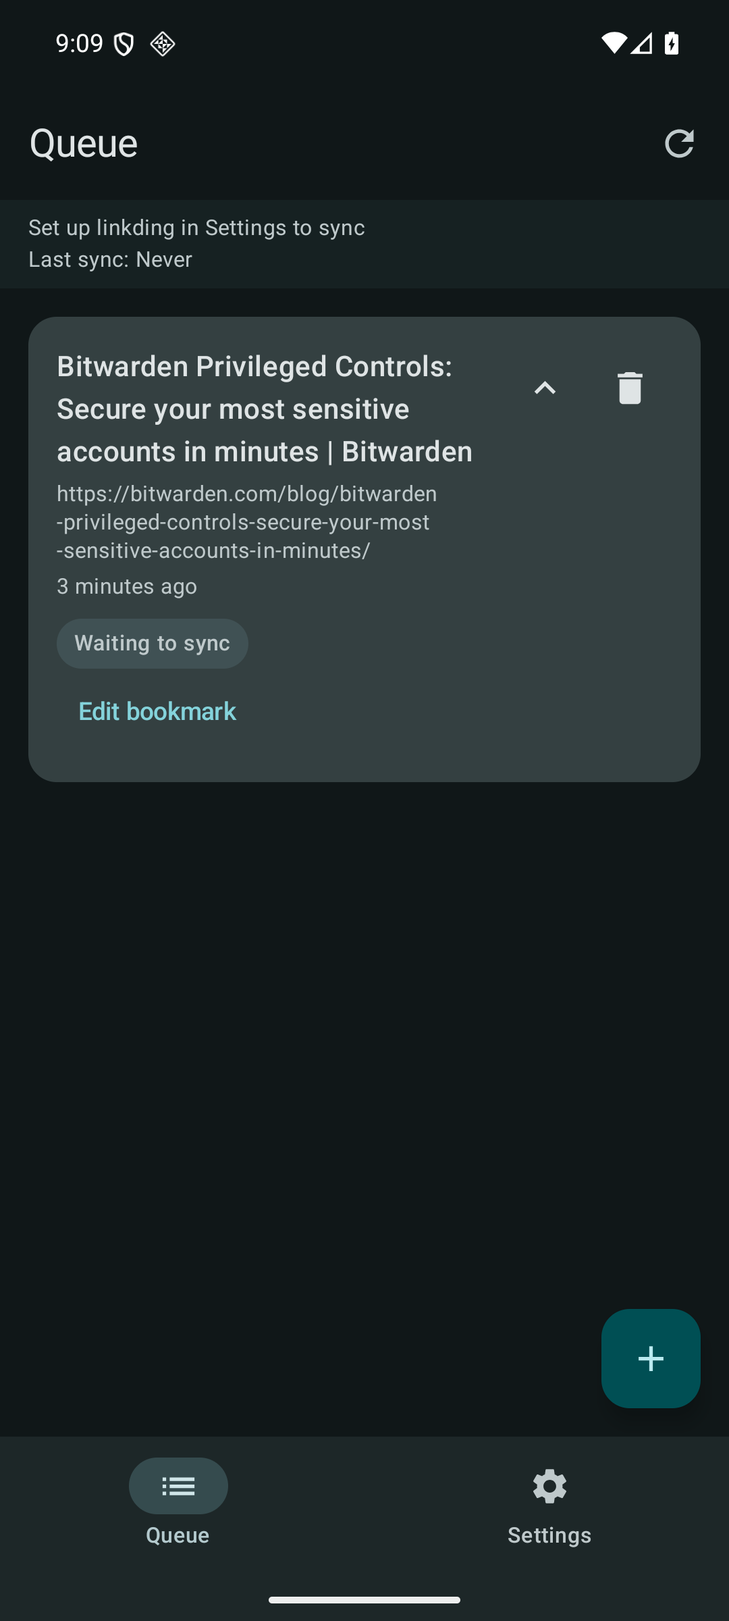
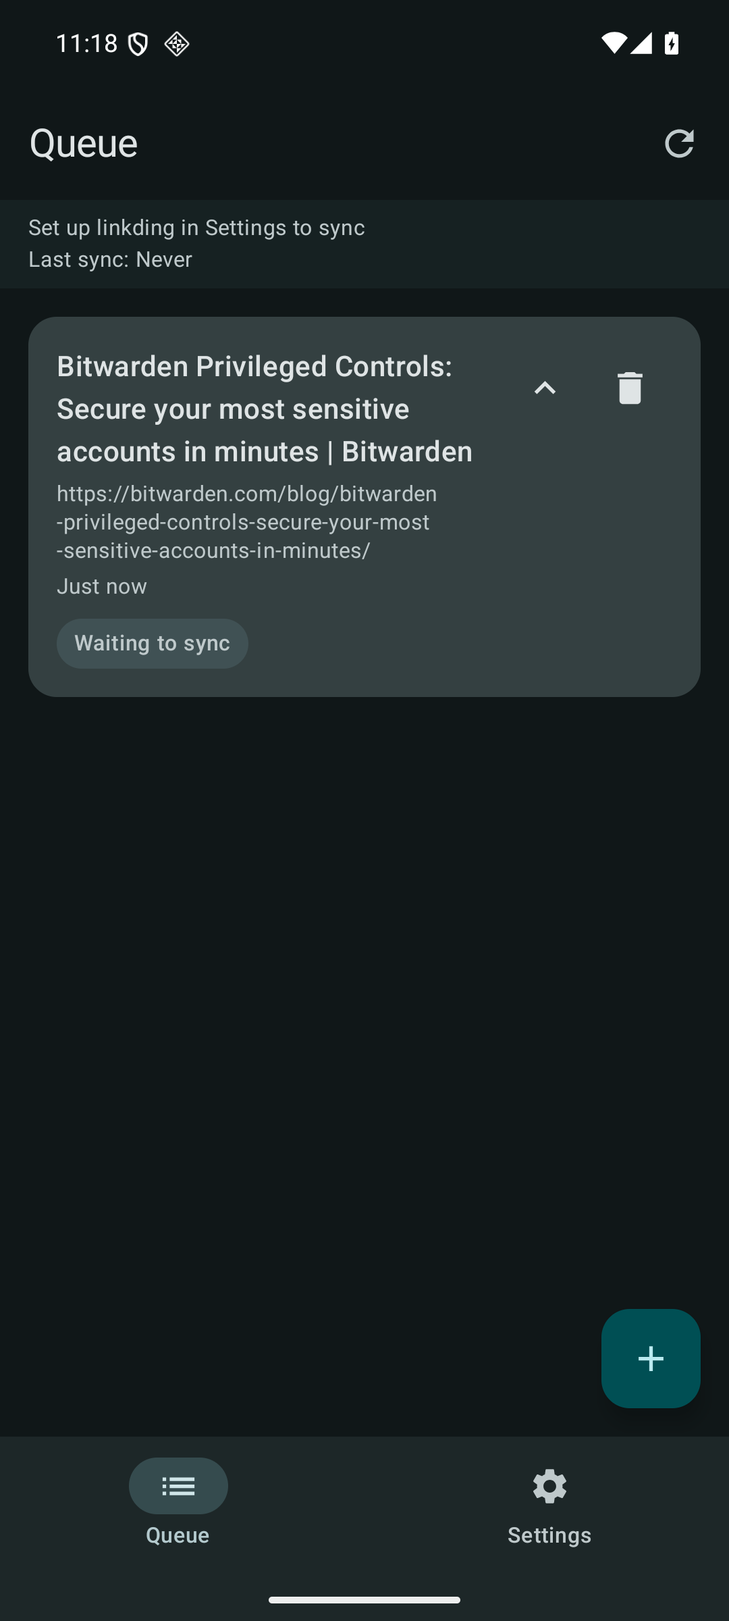
docs: drop the share form and queue editor
The specification states one Share target (R1), link-only titles
including links split by whitespace (R16), and a read-only queue (R23).
R24 is removed; R29 keeps the Add Bookmark discard confirmation. README
loses the ShareDing… and Edit bookmark steps, and the expanded-card
screenshot is retaken without the Edit button.

Refs #24

Changed region(s): [[0.0306, 0.4062, 0.9778, 0.5], [0.0917, 0.3438, 0.275, 0.375], [0.0611, 0.0, 0.2444, 0.0312]]

diff --git a/docs/specs/share-to-linkding.md b/docs/specs/share-to-linkding.md
@@ -1,8 +1,8 @@
 # Sending links to linkding on Android
 
-Status: R1–R24 implemented with automated coverage on Android 9 and 16. WorkManager may delay recovery under Android power restrictions. A real VPN has not been tested manually.
+Status: R1–R23 and R25–R29 implemented with automated coverage on Android 9 and 16. R24 (queue editing rules) was removed on 2026-10-01 together with the queue editor and the "ShareDing…" form Share target; R23 and R29 now state what remains. WorkManager may delay recovery under Android power restrictions. A real VPN has not been tested manually.
 
-Sources: the user's requirements on 2026-09-26 through 2026-09-30, including the decision to send titles from the Add Bookmark form and omit titles from Share, the agreed RFCs, the iOS app in the sibling `share` repository, the observed Chrome share Intent on Android 16, and the [linkding API documentation](https://github.com/sissbruecker/linkding/blob/master/docs/src/content/docs/api.md).
+Sources: the user's requirements on 2026-09-26 through 2026-09-30, including the decision to send titles from the Add Bookmark form and omit titles from Share and the 2026-10-01 decision to remove queue editing and the form Share target, the agreed RFCs, the iOS app in the sibling `share` repository, the observed Chrome share Intent on Android 16, and the [linkding API documentation](https://github.com/sissbruecker/linkding/blob/master/docs/src/content/docs/api.md).
 
 ## Purpose and scope
 
@@ -10,7 +10,7 @@ The app accepts a link from Android's Share menu or its add form, saves it on th
 
 ## Requirements
 
-- R1. Register as a `text/plain` `ACTION_SEND` target. Accept HTTP(S) URLs and save each entry to the local database before making a network request. Keep the sending app visible through a transparent Share activity, show a short `Saved to queue` Toast only after a successful local write, and then finish. Show distinct feedback for invalid URLs, duplicates, or local save errors.
+- R1. Register exactly one `text/plain` `ACTION_SEND` target, so Android does not group several ShareDing entries behind an extra choice. Accept HTTP(S) URLs and save each entry to the local database before making a network request. Keep the sending app visible through a transparent Share activity, show a short `Saved to queue` Toast only after a successful local write, and then finish. Show distinct feedback for invalid URLs, duplicates, or local save errors.
 - R2. Send queued entries when a network becomes available. The server may be on a LAN or VPN without public internet access. `NET_CAPABILITY_VALIDATED` must not block such servers. Check linkding availability with an API request before sending.
 - R3. Keep unsent entries after a timeout, HTTP error, connection error, or restart, and keep retrying without a fixed limit. WorkManager uses exponential backoff starting at 30 seconds; Android may run the work later. A successful `POST /api/bookmarks/` removes only the entry that was sent.
 - R4. Let users add a URL manually with title, description, and tags. Fetch page details on request. Settings include the server URL, API token, default tags, unread/archive options, and Test Connection. Keep the connection result visible until the server URL or token changes. The queue shows status chips, Retry for failed entries, Sync now, the most recent attempt time and result, and an empty state with an Add bookmark action.
@@ -25,20 +25,19 @@ The app accepts a link from Android's Share menu or its add form, saves it on th
 - R13. Settings has no proxy options. After an upgrade from a version with proxy support, remove the saved proxy host, port, username, and encrypted proxy password once. Queued bookmarks, the server URL, the API token, and bookmark defaults stay unchanged.
 - R14. Test Connection, tag suggestions, queued bookmark delivery, and Add Bookmark Fetch connect directly over the selected network and ignore any system HTTP proxy. An active system VPN carries these connections like other app traffic. Network selection, HTTPS certificate validation, and redirect/token protections apply to every request.
 - R15. Repeated saves while sync is waiting must reuse that pending WorkManager job. If sync is running, schedule at most one successor so a link saved after its final queue read still gets processed. Automatic saves and recovery do not cancel in-flight delivery; manual actions follow R19.
-- R16. Keep the title supplied in `EXTRA_TITLE` or `EXTRA_SUBJECT` locally for inspection, including multiline text. Omit the title field from linkding requests for shared bookmarks; linkding determines its own title. Send a nonblank title saved in the Add Bookmark form, including details explicitly fetched into that form. Collapse whitespace into one line and limit the sent title to 512 Unicode code points without splitting surrogate pairs. Omit blank titles. Background sync does not fetch bookmarked pages. Explicitly entered descriptions are preserved.
+- R16. Keep the title supplied in `EXTRA_TITLE` or `EXTRA_SUBJECT` locally for inspection, including multiline text. Drop a title that is only the shared link: any lone HTTP(S) URL, the link without scheme or `www.`, its prefix shortened with an ellipsis, or the link split by whitespace as in Mastodon timelines. Omit the title field from linkding requests for shared bookmarks; linkding determines its own title. Send a nonblank title saved in the Add Bookmark form, including details explicitly fetched into that form. Collapse whitespace into one line and limit the sent title to 512 Unicode code points without splitting surrogate pairs. Omit blank titles. Background sync does not fetch bookmarked pages. Explicitly entered descriptions are preserved.
 - R17. Preserve Unicode text and encoded URLs from Android shares through local storage and the UTF-8 linkding JSON request. For fetched HTML, use the HTTP charset when supplied, otherwise detect a declared HTML charset and fall back to UTF-8. Do not decode or normalize URL escapes as text.
 - R18. Register one persistent recovery check with a 30-minute WorkManager interval and a CONNECTED network constraint that accepts LAN and VPN networks without public internet validation. It reads the local queue and, only when links and server settings are present, restores a missing one-time sync request. It does not send links, replace pending or running work, append a successor, or shorten retry backoff. App startup and new-network callbacks also skip normal sync when the queue or connection settings are empty. Android may delay the check to save power; no app screen or continuously running service is required.
 - R19. Queue Sync now, Retry, saved connection settings, and confirmed deletion replace existing one-time sync work or create it if missing. Cancel active requests, reset retry delay, and read the current queue. Network constraints still apply. Before each POST, skip entries deleted since the batch was read. A request already accepted by linkding cannot be recalled.
 - R20. Queue shows current running/waiting state and the most recent attempt's result and timestamp in small text, including when empty. Record failure time as well as success time. A successful later item in a partly failed batch must not clear the failure. Settings has no Sync section.
 - R21. Tapping a queue card expands or collapses its details. Expanded title, URL, and error text wrap without ellipsis and support selection and copying. Separate Delete and Retry controls keep their existing actions.
 - R22. HTTP errors retain their status code and full response body in the queued entry and latest sync error. Preserve JSON validation details and plain text; an empty response still shows the HTTP code.
-- R23. Expanded queue cards offer Edit. A full-screen form edits URL, title, description, and tags with Save and Back actions. Opening it pauses the whole queue and cancels/waits for active sync; shares still save locally, while manual, startup, network, and recovery scheduling cannot resume delivery. Save and cancel release the pause and replace sync work. Drafts and the pause survive Activity recreation; process death removes the gate so startup recovery can resume.
-- R24. Saving edits updates the existing entry without changing its ID, creation time, notes, or unread/archive flags. Reset attempts and the prior error after a valid update. Invalid or duplicate URLs and entries already delivered show a visible error without losing the draft or recreating the entry. Changing other fields preserves shared/legacy title text and its send flag; a changed nonblank title becomes manual and follows the 512-character one-line rule. Clearing title omits it. Back with changes asks whether to discard; discarding does not change the stored entry.
-- R25. Before a URL enters the queue from Share, Add Bookmark, or the queue editor, remove known tracking query parameters: names starting with `utm_`, common click identifiers such as `fbclid`, `gclid`, `yclid`, and `msclkid`, and `si` on YouTube and Spotify hosts. Keep every other parameter, their order and encoding, and the fragment. Drop `?` when no parameter remains. A URL without tracking parameters is stored unchanged, and cleanup runs before the duplicate check.
+- R23. Queued entries cannot be edited. An expanded card shows details and offers only Retry for a failed entry and Delete. Nothing in the app pauses sync.
+- R25. Before a URL enters the queue from Share or Add Bookmark, remove known tracking query parameters: names starting with `utm_`, common click identifiers such as `fbclid`, `gclid`, `yclid`, and `msclkid`, and `si` on YouTube and Spotify hosts. Keep every other parameter, their order and encoding, and the fragment. Drop `?` when no parameter remains. A URL without tracking parameters is stored unchanged, and cleanup runs before the duplicate check.
 - R26. Before sending a queued bookmark, the sync worker resolves links on a fixed list of URL shorteners (`t.co`, `bit.ly`, `vk.cc`, `clck.ru`, and similar). It sends GET requests without the linkding token and without following redirects, reads `Location` from a 3xx response, and repeats while the target is still a listed shortener, up to five requests. The first host outside the list ends resolution; that site is never contacted. The resolved URL gets R25 cleanup and replaces the URL in the linkding request, and `Original URL: <short link>` is appended to the notes. Any failure (timeout of about five seconds per request, network error, non-redirect response, invalid `Location`, too many hops) sends the original URL unchanged and does not by itself fail delivery. The queued entry keeps the short URL.
 - R27. The Add Bookmark URL field has a paste button. It reads the clipboard only when tapped and replaces the field with the first HTTP(S) link found in the clipboard text, extracted and cleaned as in Share. Without a link, it shows a short message and leaves the field unchanged.
 - R28. Sync errors that retrying cannot fix (HTTP 401/403, 404, the HTTPS requirement, an unreadable token) show one notification per error kind until the kind changes or a sync succeeds. If the oldest queued link is older than 24 hours while server settings are present, show one "waiting" notification for that link. Tapping a notification opens the app; a successful sync or an empty queue removes them. Transient errors do not notify. On Android 13+, request the notification permission once, after a sync error is recorded. Settings shows whether sync alerts are on; its Turn on action repeats the permission request while Android allows it and otherwise opens the system notification settings. Without the permission or with notifications turned off, sync behaves the same and errors stay visible in Queue.
-- R29. A second Share target, "ShareDing…", opens the Add Bookmark form with the shared URL (extracted and cleaned as in R1 and R25) and the shared title collapsed to one line. Saving follows the Add Bookmark rules, including a manual title, and closes the form so the sending app returns. Invalid shared text shows the same message as the quick target and opens no form. In both Add Bookmark forms, leaving a changed draft asks for confirmation; an unchanged draft closes directly. The quick "ShareDing" target is unchanged.
+- R29. Leaving the Add Bookmark form with a changed draft asks for confirmation; an unchanged draft closes directly.
 
 ## Invariants and compatibility
 
@@ -47,7 +46,7 @@ The app accepts a link from Android's Share menu or its add form, saves it on th
 - Delivery has at-least-once semantics. If the server accepts a POST but the response is lost, the request may be repeated. Current linkding updates an existing bookmark with the same URL.
 - Missing server URL or token does not prevent local saving. The queue remains available for delivery after setup.
 - A saved page URL may use HTTP or HTTPS regardless of the linkding server URL scheme.
-- Editing tag defaults or loading tag suggestions does not change already queued bookmarks. A missing connection does not prevent local tag entry, saving bookmark defaults, or editing queued entries.
+- Editing tag defaults or loading tag suggestions does not change already queued bookmarks. A missing connection does not prevent local tag entry or saving bookmark defaults.
 - The app has no proxy transport. Proxy support was removed because HTTP proxy Basic credentials could only be sent without TLS; a system VPN is the supported way to reach a server through another route.
 - Room version 2 adds a `sendTitle` flag. Version 1 entries retain every existing field, with `sendTitle = false` because their title source was not recorded. Their titles stay visible locally; linkding extracts the title on delivery. New nonblank form titles set the flag; Share titles do not.
 
@@ -56,8 +55,6 @@ The app accepts a link from Android's Share menu or its add form, saves it on th
 Kotlin and Jetpack Compose provide the Android UI; Room stores the queue; WorkManager runs durable background sync with a network constraint and retries. Its `NetworkRequest` requires the `INTERNET` capability, but not `VALIDATED` or `NOT_VPN`: Wi-Fi without public internet validation and VPN remain candidates. The worker reads Room entries in creation order, tries available networks, and checks linkding through `GET /api/tags/`. The API token is stored separately from the queue using Android Keystore protection. Android Network Security Config allows HTTP for bookmark page fetches; the app sends the token only to the configured HTTPS linkding origin.
 
 App startup and new-network callbacks check the queue before ensuring one normal sync job exists. Sharing and form saves reuse an enqueued or blocked job. If only a running job remains, they add one successor; if no job remains, they schedule a new one. Manual queue actions instead use WorkManager REPLACE. Scheduling waits for WorkManager to persist the request. OkHttp calls propagate coroutine cancellation to the socket, including while reading response bodies. The worker's database update before POST returns the number of matching rows; a deleted entry is skipped.
-
-The queue editor owns a transient session in an Activity ViewModel. The common scheduler blocks every delivery entrypoint, cancels active work, and waits for the worker's database writes to finish before loading the editor. A session identifier prevents an old editor from resuming a newer session. Saving atomically updates the existing Room row; a failed update keeps the draft and pause. Saving or discarding releases the gate and replaces sync work. Activity destruction releases the gate, while recreation retains the ViewModel. The gate is never persisted, so ordinary process death allows startup recovery to resume delivery. A POST already accepted by linkding cannot be recalled.
 
 The separate periodic recovery worker starts after an initial 30-minute delay and repeats at a 30-minute WorkManager interval while its network constraint is met. It only checks Room and server settings, then uses KEEP to restore an absent normal sync request. Existing pending retries and running uploads remain untouched. WorkManager can launch the app process for this check after ordinary process death or reboot; Android can delay it, and a user force-stop prevents background work until user interaction.
 
@@ -69,7 +66,7 @@ For R16–R17, Share titles serve as local labels. A persisted flag distinguishe
 
 ## Verification scenarios
 
-- R1, R2: Share a URL without a network or server settings. ShareDing appears in the text Share menu, keeps the sending app visible, saves the entry, shows a short Toast, and sends it after network access and server settings become available. Sharing invalid text leaves the queue unchanged.
+- R1, R2: Share a URL without a network or server settings. ShareDing appears once in the text Share menu, keeps the sending app visible, saves the entry, shows a short Toast, and sends it after network access and server settings become available. Sharing invalid text leaves the queue unchanged.
 - R3, R6: Return 401/5xx from the API, drop the connection, or stop the worker. The entry remains queued and is removed only after a successful POST. A new link during backoff waits for the existing retry.
 - R15: Save 50 links while sync is waiting for a network: one unfinished request remains. Save links while sync is running: one successor remains blocked without canceling the running job. After it finishes, the successor processes any link it missed.
 - R18: With an empty queue or missing server settings, run recovery and observe no new sync request. With a queued link and no sync request, recovery adds exactly one. With an enqueued retry or running upload, recovery keeps its WorkManager ID and adds no successor. Repeated registration keeps one periodic request. After an ordinary process kill or reboot, WorkManager can run the saved work without reopening the UI.
@@ -80,14 +77,14 @@ For R16–R17, Share titles serve as local labels. A persisted flag distinguishe
 - R11: Fetch an HTML page containing title, description, and keywords. Confirm all available fields appear and can be edited before saving. Omitted metadata and a failed request do not clear manual values.
 - R5, R12: Open About and confirm the app icon and identity appear above version and links, including the public privacy policy.
 - R13, R14: Upgrade from a build with a saved proxy and credentials; confirm the proxy values and encrypted password are gone while the queue, server URL, token, and defaults remain. Confirm Settings shows no proxy options and that sync and page fetches reach their origins directly. Covered by `SettingsStoreProxyCleanupTest`, `QueueUiTest`, and `SyncWorkerTest`.
-- R16, R17: Share a multiline non-ASCII title and verify it remains local while the POST omits title and no page request occurs. Save a form title, then confirm it is sent as one line with at most 512 Unicode code points. Verify the same behavior after retries and a version 1 database upgrade. Covered by `ShareIntentTest`, `SyncWorkerTest`, `LinkdingApiTest`, `BookmarkTitlesTest`, and `BookmarkMigrationTest`. Explicit HTML fetch tests retain charset coverage in `PageMetadataTest`.
+- R16, R17: Share a multiline non-ASCII title and verify it remains local while the POST omits title and no page request occurs. Save a form title, then confirm it is sent as one line with at most 512 Unicode code points. Share a title equal to the link and the link split by whitespace and verify that no title is stored. Verify the same behavior after retries and a version 1 database upgrade. Covered by `ShareIntentTest`, `SyncWorkerTest`, `LinkdingApiTest`, `BookmarkTitlesTest`, and `BookmarkMigrationTest`. Explicit HTML fetch tests retain charset coverage in `PageMetadataTest`.
 - R20–R22: Expand a long title, URL, and error, verify none is ellipsized, and collapse again. Return a structured HTTP error, retain its body and attempt time, then manually sync successfully and show that result with an empty queue. Settings has no Sync Now action. Covered by `QueueUiTest`, `LinkdingApiTest`, and `SyncWorkerTest`.
-- R23–R24: Edit a queued row while an upload awaits a response; cancel that upload, block scheduling and direct workers, then send the changed URL after save. Preserve shared title text when changing other fields; normalize changed manual titles and omit cleared titles. Verify duplicate/invalid/missing entries keep the draft, edits preserve the ID and other metadata, and save resets failure state. Cancel, recreate, and destroy the Activity to check draft and pause lifetime. Covered by `QueueEditingSyncTest`, `QueueEditingDataTest`, `QueueEditingUiTest`, and `BookmarkDraftTest`.
-- R25: Share, add, and edit URLs with tracking parameters, host-specific `si`, encoded names, and URLs without tracking parameters; confirm the stored URL. Covered by `TrackingParamsTest`, `UrlsTest`, `BookmarkDraftTest`, and `ShareIntentTest`.
+- R23: Expand a failed queue card and confirm it offers Retry and Delete and no Edit. Covered by `QueueUiTest.cardExpandsFullSelectableTitleUrlAndErrorThenCollapses`.
+- R25: Share and add URLs with tracking parameters, host-specific `si`, encoded names, and URLs without tracking parameters; confirm the stored URL. Covered by `TrackingParamsTest`, `UrlsTest`, and `ShareIntentTest`.
 - R26: Resolve a single redirect, a chain of shorteners, and failures (timeout, disconnect, 200 page, redirect without or with invalid `Location`, six hops); confirm the request carries no token and only listed hosts are contacted. Covered by `ShortLinkResolverTest` and `SyncWorkerTest.workerSendsResolvedShortLinkAndKeepsOriginalInNotes`.
 - R27: Paste text containing a tracked link and text without a link. Covered by `QueueUiTest.pasteButtonFillsUrlFromClipboard` and `QueueUiTest.pasteWithoutLinkKeepsUrlField`.
 - R28: Classify errors, show and deduplicate problem and waiting notifications, clear them after success, and show the Settings state. Deny the permission twice on Android 13+ and confirm Turn on first asks again, then opens system settings; granting it outside the app switches the state to On on return. Covered by `SyncProblemTest`, `NotificationAccessTest`, `SyncNotifierTest`, and `QueueUiTest.settingsShowGrantedNotificationAlertsAsOn`; the denial flow was checked manually on API 36.
-- R29: Confirm both Share targets and labels; share into the form, add tags, and save; cancel an unchanged and a changed draft; share invalid text. Covered by `ShareIntentTest.appearsInTextShareTargets`, `ShareFormTest`, and `QueueUiTest.addFormAsksBeforeDiscardingTypedLink`.
+- R1, R29: Confirm the package exposes one Share target labelled ShareDing; leave the Add Bookmark form with a typed link and confirm the discard prompt. Covered by `ShareIntentTest.appearsInTextShareTargets` and `QueueUiTest.addFormAsksBeforeDiscardingTypedLink`.
 
 Automated checks: `./gradlew assembleDebug assembleRelease testDebugUnitTest testReleaseUnitTest lintDebug lintRelease connectedDebugAndroidTest`. URL, metadata, and linkding API cases are covered in `app/src/test/java/org/evsyukov/shareding/network/`; Room queue, Share Intent, worker, scheduler, and UI cases are covered in `app/src/androidTest/java/org/evsyukov/shareding/`.
 

diff --git a/README.md b/README.md
@@ -24,7 +24,7 @@ WorkManager also checks for queued links about every 30 minutes when a suitable 
 
 The queue survives app restarts and device reboots. Delivery is at least once: if linkding accepts a request but the response is lost, ShareDing may send the same URL again. Linkding updates an existing bookmark with that URL.
 
-ShareDing keeps shared titles locally and lets linkding determine the page title. A shared title that is only the link, as browsers send for a long-pressed link, is ignored. Titles entered in Add Bookmark or changed in the queue editor are sent as one line with up to 512 characters. Editing other fields preserves the original title behavior; clearing the title lets linkding fetch it. Background sync does not fetch bookmarked pages; **Fetch page details** remains available in the add form.
+ShareDing keeps shared titles locally and lets linkding determine the page title. A shared title that is only the link, as browsers send for a long-pressed link, is ignored, including a link split by spaces as in Mastodon timelines. Titles entered in Add Bookmark are sent as one line with up to 512 characters; an empty title lets linkding fetch it. Background sync does not fetch bookmarked pages; **Fetch page details** remains available in the add form.
 
 ## Screenshots
 
@@ -34,15 +34,14 @@ These screens were captured on an Android 16 emulator with an example link in th
 | --- | --- | --- |
 | <a href="docs/images/queue.png"><img src="docs/images/queue.png" alt="Queue with sync status and an expandable pending bookmark" width="200"></a> | <a href="docs/images/add-bookmark.png"><img src="docs/images/add-bookmark.png" alt="Add Bookmark form with URL, title, description, tags, and Fetch page details" width="200"></a> | <a href="docs/images/settings.png"><img src="docs/images/settings.png" alt="Settings with linkding connection and bookmark defaults" width="200"></a> |
 
-[Expanded bookmark details](docs/images/queue-expanded.png) show the full title and URL, with an action to open the [queue editor](docs/images/edit-bookmark.png).
+[Expanded bookmark details](docs/images/queue-expanded.png) show the full title and URL.
 
 ## Quick start
 
 1. Install the APK using [Obtainium](https://github.com/ImranR98/Obtainium) or download it from [Releases](https://github.com/juev/shareding/releases). See [Install and update](#install-and-update) for details.
 2. In Settings, enter your HTTPS linkding server URL and API token, then tap **Save settings** at the bottom. Use **Test Connection** to check the server. If you previously configured an HTTP server URL, change it to HTTPS to resume sync; your queued bookmarks remain on the device.
-3. Open a browser's Share menu and select **ShareDing**. It returns to the browser after a short confirmation without opening the main app screen. To add tags or a description first, choose **ShareDing…** instead: it opens the bookmark form with the link and title filled in and returns to the browser after you save. You can also tap `+` in Queue to add a link manually; the paste button in the URL field inserts the first link from the clipboard. The full-screen form accepts a URL, title, description, and tags; **Fetch page details** fills an empty title and description from the page; tags stay as you enter them.
+3. Open a browser's Share menu and select **ShareDing**. It returns to the browser after a short confirmation without opening the main app screen. To add tags or a description, tap `+` in Queue and enter the link manually; the paste button in the URL field inserts the first link from the clipboard. The full-screen form accepts a URL, title, description, and tags; **Fetch page details** fills an empty title and description from the page; tags stay as you enter them.
 4. Check Queue for waiting, sending, or failed bookmarks and the last sync result and time. Tap a card to inspect and copy its full title, URL, and error. Failed entries have a **Retry** action; the **Sync now** button in Queue restarts sync immediately when a network is available and, with an empty queue, checks the server so the last sync result stays current. Removing an entry requires confirmation and restarts sync with the remaining links.
-5. Expand a card and tap **Edit bookmark** to change its URL, title, description, or tags. Sync pauses for the whole queue until you save or cancel, while incoming shares still save locally. **Save changes** updates the same entry, clears its old error, and restarts sync. Back asks whether to discard a changed draft. The draft survives screen rotation; closing the app process discards unsaved edits and releases the pause.
 
 If sync hits a problem that retrying cannot fix, such as a rejected API token, or links wait longer than a day, ShareDing shows a notification. On Android 13 and newer it asks for the notification permission after the first sync error; you can turn alerts on later in Settings. Without notifications, sync works the same and errors stay visible in Queue.
 
